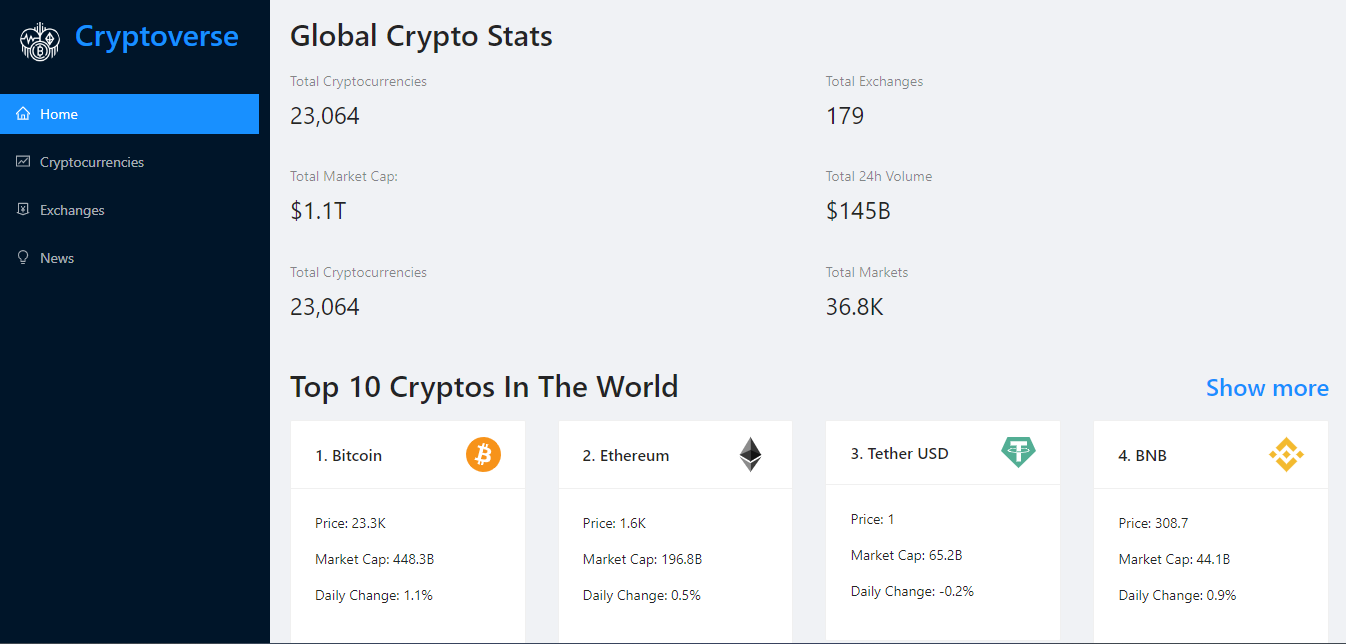
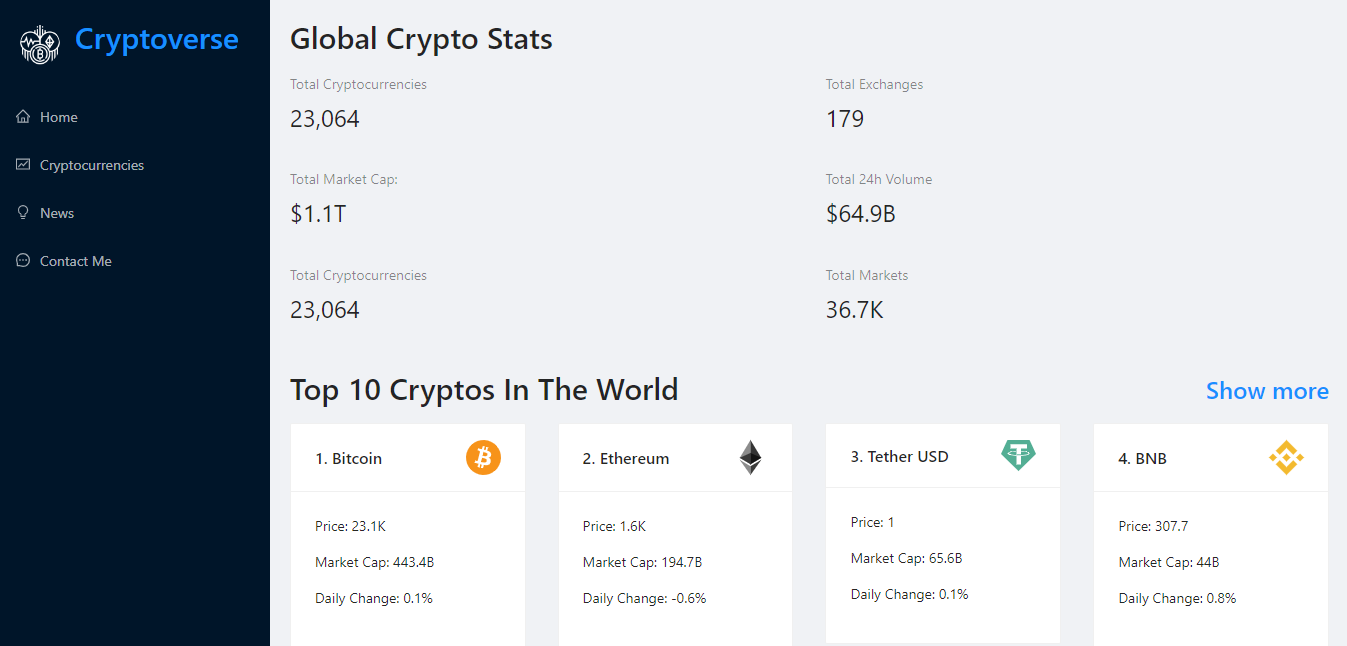
edit

diff --git a/src/App.js b/src/App.js
@@ -1,10 +1,9 @@
 import React from "react";
-import { BrowserRouter, Routes, Route, Link } from "react-router-dom";
+import {  Routes, Route, Link } from "react-router-dom";
 import { Layout, Typography, Space } from "antd";
 import {
   Navbar,
   Homepage,
-  Exchanges,
   CryptoDetails,
   Cryptocurrencies,
   News,
@@ -21,7 +20,7 @@ const App = () => {
           <div className="routes">
             <Routes>
               <Route path="/" element={<Homepage />} />
-              <Route path="/exchanges" element={<Exchanges />} />
+              {/* <Route path="/exchanges" element={<Exchanges />} /> */}
               <Route path="/cryptocurrencies" element={<Cryptocurrencies />} />
               <Route path="/crypto/:coinId" element={<CryptoDetails />} />
               <Route path="/news" element={<News />} />

diff --git a/README.md b/README.md
@@ -8,22 +8,22 @@
 
 --------
 
-## **Home Page : The main inforamtion about cryptocurrencies.**
+## **Home Page : The main information about cryptocurrencies.**
 
 ![img](./src/images/1.png)
 
 ## **Cryptocurrencies : List of top 100 cryptocurrencies with search ability.**
 
-![img](./src/images/3.png)
+![img](./src/images/2.png)
 
 ## **Crypto Details : Chart for each cryptocurrency.**
 
+![img](./src/images/3.png)
+
+## **Crypto Details : General information for each cryptocurrency.**
+
 ![img](./src/images/4.png)
-
-## **Crypto Details : General inforamtion for each cryptocurrency.**
-
-![img](./src/images/5.png)
 
 ## **News : The latest cryptocurrency news with search ability.**
 
-![img](./src/images/6.png)
+![img](./src/images/5.png)
